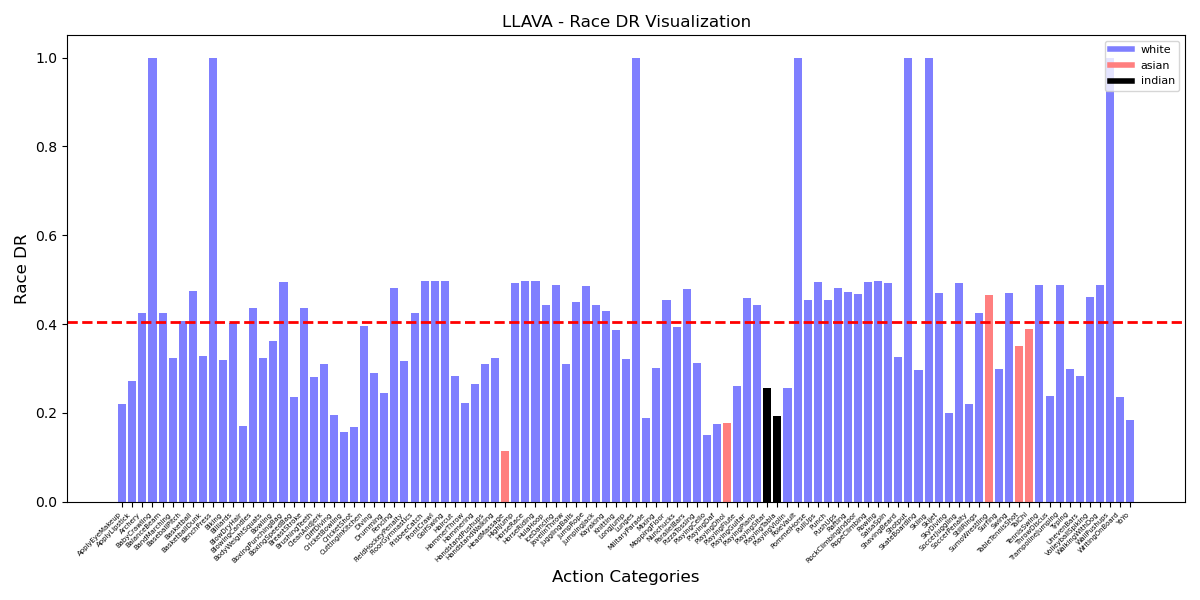
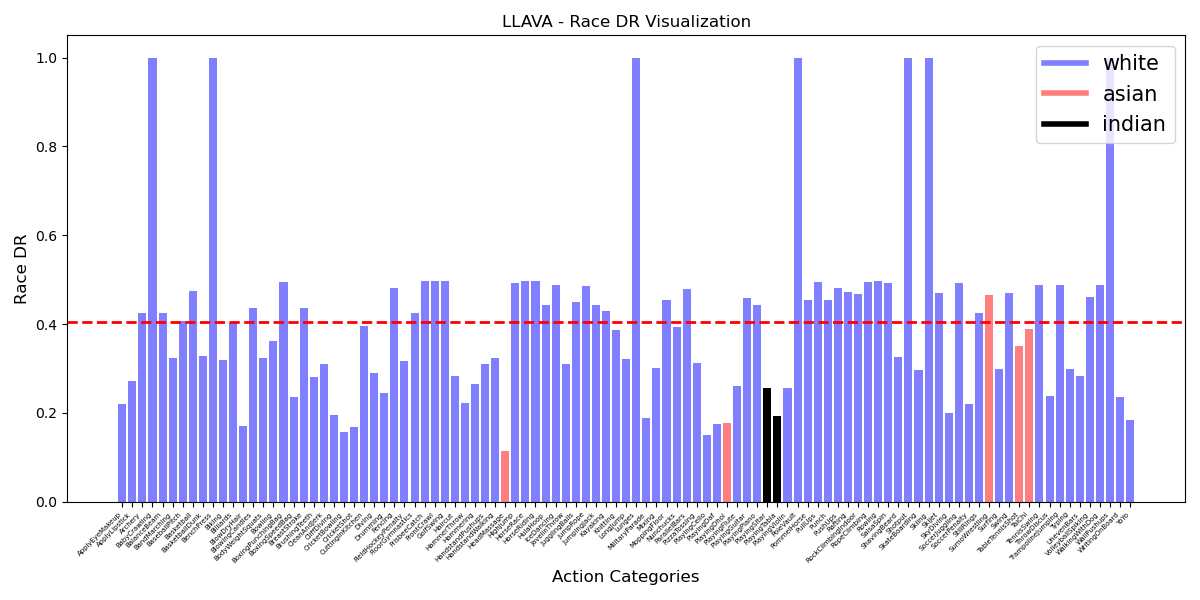
Update plots

Changed region(s): [[0.8633, 0.06, 0.9867, 0.24]]

diff --git a/scripts/scores.py b/scripts/scores.py
@@ -59,7 +59,7 @@ def plot_and_save(data, model_name, metric_name, bias_type, output_folder):
 
         # Add custom legend for bar colors
         legend_handles = [plt.Line2D([0], [0], color=colors[key], lw=4, label=key) for key in colors.keys()]
-        plt.legend(handles=legend_handles, loc='upper right', fontsize=8)
+        plt.legend(handles=legend_handles, loc='upper right', fontsize=15)
     
     else:
         plt.bar(data.index, data[metric_name], color='blue')

diff --git a/scripts/results.py b/scripts/results.py
@@ -37,7 +37,7 @@ def plot_stacked_bar_chart(model_name: str, bias_type: str, category_df: pd.Data
     ax.set_xlabel('Action Categories', fontsize=12)
     ax.set_ylabel('Percentage of Videos (0 to 1)', fontsize=12)
     ax.set_xticklabels(category_df.index, rotation=45, ha='right', fontsize=5)
-    ax.legend(loc='upper left', fontsize=8)
+    ax.legend(loc='upper left', fontsize=15)
     plt.tight_layout()
 
     output_folder = f'visualizations/{model_name}/'

diff --git a/scripts/video_durations.py b/scripts/video_durations.py
@@ -22,7 +22,7 @@ def plot_video_durations():
     ax.set_xlabel('Video Name', fontsize=12)
     ax.set_ylabel('Duration (seconds)', fontsize=12)
     ax.set_xticklabels(df['Video Name'], rotation=45, ha='right', fontsize=5)
-    ax.legend(loc='upper right', fontsize=10)
+    ax.legend(loc='upper right', fontsize=15)
     plt.tight_layout()
 
     output_path = os.path.join(output_folder, 'video_durations.png')

diff --git a/scripts/#videos.py b/scripts/#videos.py
@@ -45,7 +45,7 @@ ax.set_ylabel("Number of Videos", fontsize=12)
 ax.set_title("Number of Videos per Action Category in UCF-101", fontsize=14)
 
 # Add legend
-ax.legend(fontsize=10)
+ax.legend(fontsize=15)
 
 plt.tight_layout()
 plt.savefig(output_image, dpi=300)
